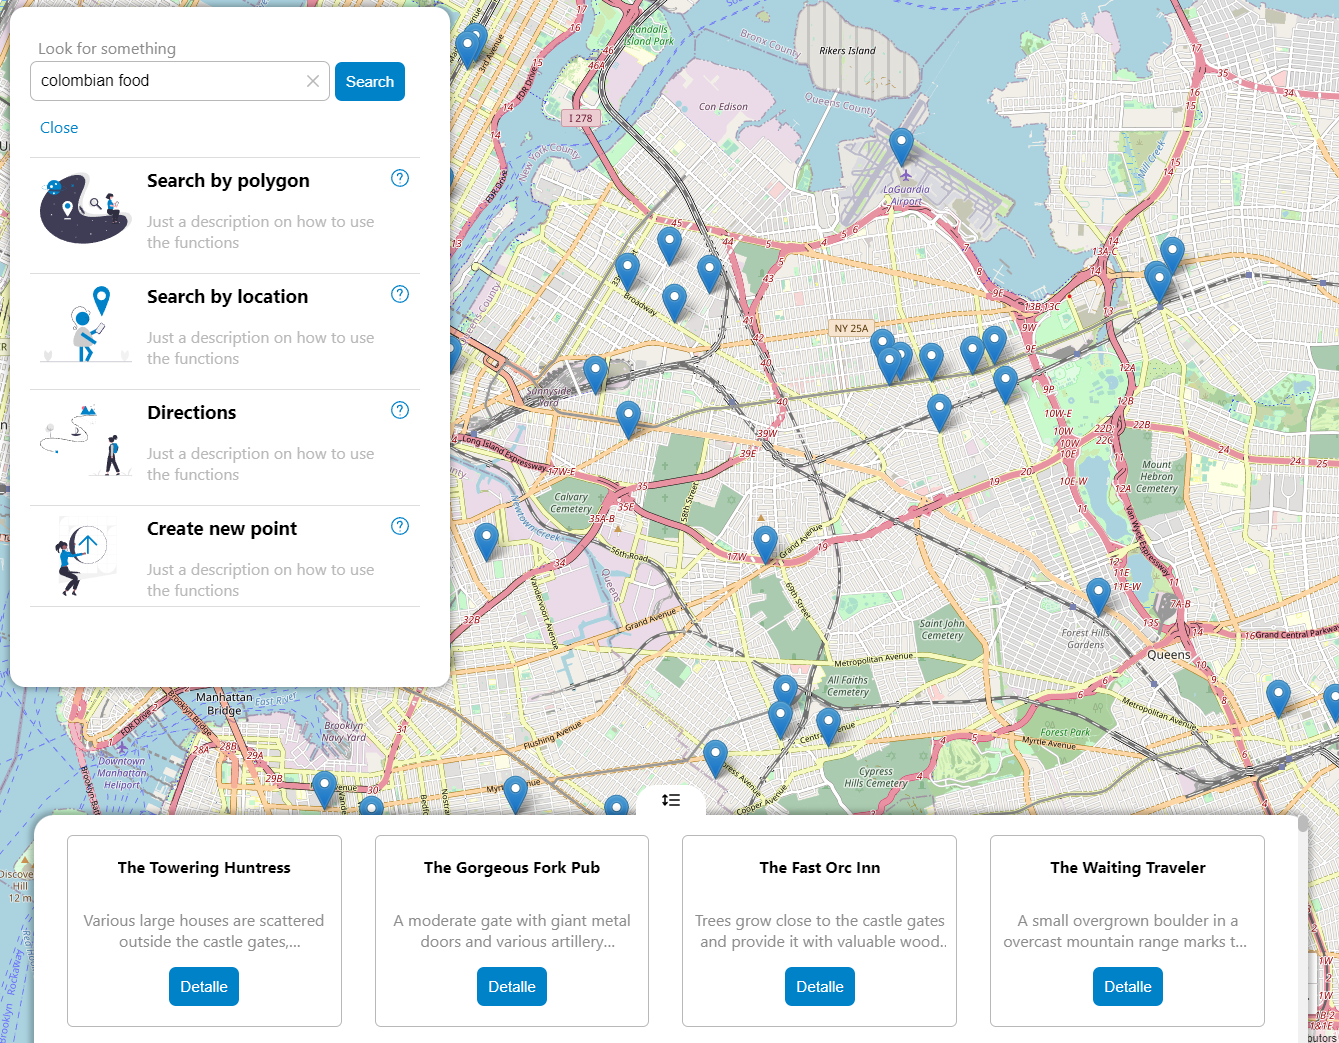
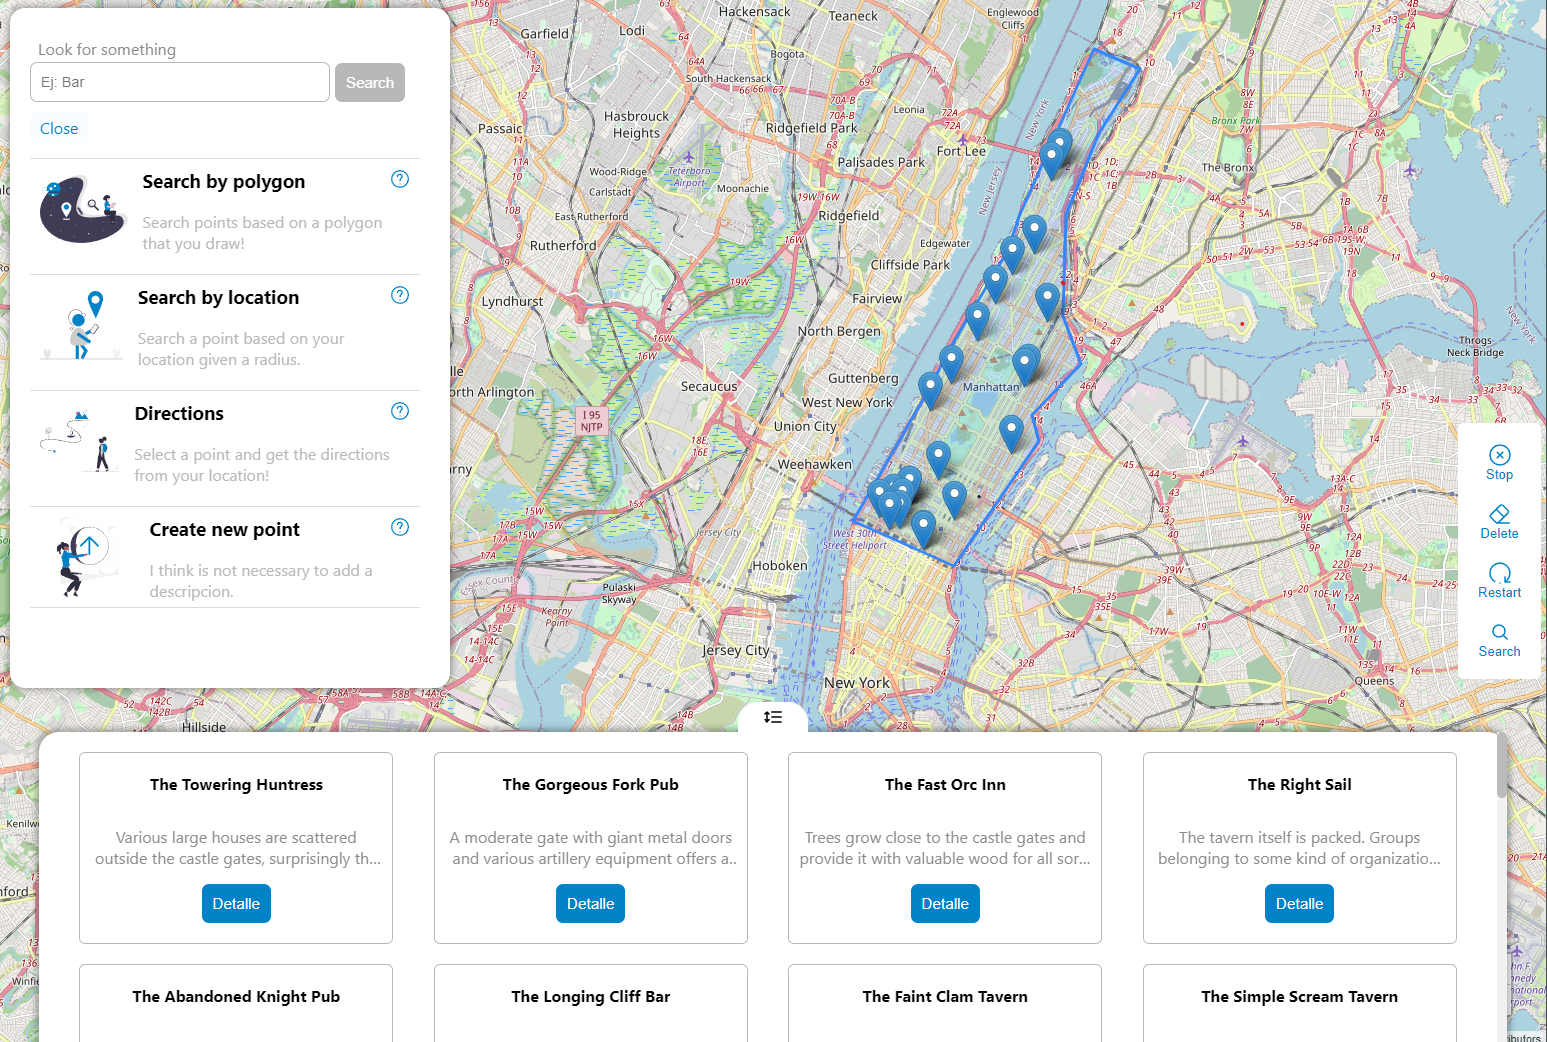
:sparkles: Search by polygon

diff --git a/src/components/Map/Map.tsx b/src/components/Map/Map.tsx
@@ -12,9 +12,14 @@ import { IPoint } from "../../Models/Interfaces";
 import "./styles.scss";
 import { useMapContext } from "../../Context/context";
 import { isMarkerInsidePolygon } from "../../helpers/helpers";
+import DrawIcon from "../../assets/icons/draw";
+import EraseIcon from "../../assets/icons/erase";
+import SearchIcon from "../../assets/icons/search";
+import StopIcon from "../../assets/icons/stop";
+import RestartIcon from "../../assets/icons/restart";
+import { throwModal } from "../../providers/ModalProvider";
 
 export const Map = () => {
-  const [markers, setMarkers] = useState<IPoint[]>(points);
   const [polygonPoints, setPolygonPoints] = useState<any>([]);
   const [drawPolygon, setDrawPolygon] = useState<any>(false);
 
@@ -37,21 +42,77 @@ export const Map = () => {
         newPoints.push(point);
       }
     });
+    if (!newPoints.length) {
+      throwModal(
+        "No results :(",
+        "We can't find results for your search, please try again"
+      );
+      setMaps({
+        ...maps,
+        showDetails: false,
+      });
+    } else {
+      setMaps({
+        ...maps,
+        points: newPoints,
+        showDetails: true,
+      });
+    }
+  };
+
+  const deleteLastPoint = () => {
+    let newPolints = [...polygonPoints];
+    newPolints = newPolints.slice(0, -1);
+    setPolygonPoints(newPolints);
+  };
+
+  const restartPolygon = () => {
+    setPolygonPoints([]);
     setMaps({
       ...maps,
-      points: newPoints,
-      showDetails: true,
+      points: [],
+      showDetails: false,
     });
-    console.log(newPoints);
   };
 
   const renderPolygonActions = () => {
     return (
       <section className="map-container__draw">
-        <button onClick={() => setDrawPolygon(!drawPolygon)}>
-          {drawPolygon ? "Stop" : "Draw"}
+        <button
+          className="map-container__button pointer"
+          onClick={() => setDrawPolygon(!drawPolygon)}
+        >
+          {drawPolygon ? (
+            <>
+              <StopIcon color="#0082c9" /> Stop
+            </>
+          ) : (
+            <>
+              <DrawIcon color="#0082c9" /> Draw
+            </>
+          )}
         </button>
-        <button onClick={() => evaluatePoints()}>Search</button>
+        <button
+          className="map-container__button pointer"
+          onClick={() => deleteLastPoint()}
+        >
+          <EraseIcon color="#0082c9" />
+          Delete
+        </button>
+        <button
+          className="map-container__button pointer"
+          onClick={() => restartPolygon()}
+        >
+          <RestartIcon color="#0082c9" />
+          Restart
+        </button>
+        <button
+          className="map-container__button pointer"
+          onClick={() => evaluatePoints()}
+        >
+          <SearchIcon color="#0082c9" />
+          Search
+        </button>
       </section>
     );
   };

diff --git a/src/components/Options/Options.tsx b/src/components/Options/Options.tsx
@@ -71,7 +71,7 @@ const Options = ({ closeSearchBar = () => {} }: IOptions) => {
           <PolygonSearchSvg width={CUSTOM_WIDTH} height={CUSTOM_HEIGHT} />
           <div className="options-container__content">
             <h3>Search by polygon</h3>
-            <p>Just a description on how to use the functions</p>
+            <p>Search points based on a polygon that you draw!</p>
           </div>
         </span>
         <HelpIcon className="pointer" onClick={() => onHelpStrategy(1)} />
@@ -86,7 +86,7 @@ const Options = ({ closeSearchBar = () => {} }: IOptions) => {
           <LocationSvg width={CUSTOM_WIDTH} height={CUSTOM_HEIGHT} />
           <div className="options-container__content">
             <h3>Search by location</h3>
-            <p>Just a description on how to use the functions</p>
+            <p>Search a point based on your location given a radius.</p>
           </div>
         </span>
         <HelpIcon className="pointer" onClick={() => onHelpStrategy(2)} />
@@ -101,7 +101,7 @@ const Options = ({ closeSearchBar = () => {} }: IOptions) => {
           <DirectionsSvg width={CUSTOM_WIDTH} height={CUSTOM_HEIGHT} />
           <div className="options-container__content">
             <h3>Directions</h3>
-            <p>Just a description on how to use the functions</p>
+            <p>Select a point and get the directions from your location!</p>
           </div>
         </span>
         <HelpIcon className="pointer" onClick={() => onHelpStrategy(3)} />
@@ -116,7 +116,7 @@ const Options = ({ closeSearchBar = () => {} }: IOptions) => {
           <CreateSvg width={CUSTOM_WIDTH} height={CUSTOM_HEIGHT} />
           <div className="options-container__content">
             <h3>Create new point</h3>
-            <p>Just a description on how to use the functions</p>
+            <p>I think is not necessary to add a descripcion.</p>
           </div>
         </span>
         <HelpIcon className="pointer" onClick={() => onHelpStrategy(4)} />

diff --git a/src/assets/icons/restart.tsx b/src/assets/icons/restart.tsx
@@ -1,0 +1,41 @@
+import { IIcon } from "../../Models/Interfaces";
+const RestartIcon = ({ color = "currentColor" }: IIcon) => {
+  return (
+    <svg
+      width="24"
+      height="24"
+      strokeWidth="1.5"
+      viewBox="0 0 24 24"
+      fill="none"
+      xmlns="http://www.w3.org/2000/svg"
+    >
+      <g clipPath="url(#clip0_1735_6488)">
+        <path
+          d="M6.67742 20.5673C2.53141 18.0212 0.758026 12.7584 2.71678 8.1439C4.87472 3.0601 10.7453 0.68822 15.8291 2.84617C20.9129 5.00412 23.2848 10.8747 21.1269 15.9585C20.2837 17.945 18.8736 19.5174 17.1651 20.5673"
+          stroke={color}
+          strokeLinecap="round"
+          strokeLinejoin="round"
+        />
+        <path
+          d="M17 16V20.4C17 20.7314 17.2686 21 17.6 21H22"
+          stroke={color}
+          strokeLinecap="round"
+          strokeLinejoin="round"
+        />
+        <path
+          d="M12 22.01L12.01 21.9989"
+          stroke={color}
+          strokeLinecap="round"
+          strokeLinejoin="round"
+        />
+      </g>
+      <defs>
+        <clipPath id="clip0_1735_6488">
+          <rect width="24" height="24" strokeWidth="1.5" fill="white" />
+        </clipPath>
+      </defs>
+    </svg>
+  );
+};
+
+export default RestartIcon;

diff --git a/src/assets/icons/erase.tsx b/src/assets/icons/erase.tsx
@@ -1,0 +1,34 @@
+import { IIcon } from "../../Models/Interfaces";
+const EraseIcon = ({ color = "currentColor" }: IIcon) => {
+  return (
+    <svg
+      width="24"
+      height="24"
+      viewBox="0 0 24 24"
+      strokeWidth="1.5"
+      fill="none"
+      xmlns="http://www.w3.org/2000/svg"
+    >
+      <path
+        d="M21 21L9 21"
+        stroke={color}
+        strokeLinecap="round"
+        strokeLinejoin="round"
+      />
+      <path
+        d="M15.889 14.8891L8.46436 7.46448"
+        stroke={color}
+        strokeLinecap="round"
+        strokeLinejoin="round"
+      />
+      <path
+        d="M2.8934 12.6066L12.0858 3.41421C12.8668 2.63317 14.1332 2.63317 14.9142 3.41421L19.864 8.36396C20.645 9.14501 20.645 10.4113 19.864 11.1924L10.6213 20.435C10.2596 20.7968 9.76894 21 9.25736 21C8.74577 21 8.25514 20.7968 7.8934 20.435L2.8934 15.435C2.11235 14.654 2.11235 13.3877 2.8934 12.6066Z"
+        stroke={color}
+        strokeLinecap="round"
+        strokeLinejoin="round"
+      />
+    </svg>
+  );
+};
+
+export default EraseIcon;

diff --git a/src/assets/icons/draw.tsx b/src/assets/icons/draw.tsx
@@ -1,0 +1,34 @@
+import { IIcon } from "../../Models/Interfaces";
+const DrawIcon = ({ color = "currentColor" }: IIcon) => {
+  return (
+    <svg
+      width="24"
+      height="24"
+      strokeWidth="1.5"
+      viewBox="0 0 24 24"
+      fill="none"
+      xmlns="http://www.w3.org/2000/svg"
+    >
+      <path
+        d="M12 2C6.47715 2 2 6.47715 2 12C2 17.5228 6.47715 22 12 22C17.5228 22 22 17.5228 22 12C22 6.47715 17.5228 2 12 2Z"
+        stroke={color}
+        strokeLinecap="round"
+        strokeLinejoin="round"
+      />
+      <path
+        d="M8 21.1679V14L12 7L16 14V21.1679"
+        stroke={color}
+        strokeLinecap="round"
+        strokeLinejoin="round"
+      />
+      <path
+        d="M8 14C8 14 9.12676 15 10 15C10.8732 15 12 14 12 14C12 14 13.1268 15 14 15C14.8732 15 16 14 16 14"
+        stroke={color}
+        strokeLinecap="round"
+        strokeLinejoin="round"
+      />
+    </svg>
+  );
+};
+
+export default DrawIcon;

diff --git a/src/assets/icons/stop.tsx b/src/assets/icons/stop.tsx
@@ -1,0 +1,28 @@
+import { IIcon } from '../../Models/Interfaces';
+const StopIcon = ({ color = "currentColor" }: IIcon) => {
+  return (
+    <svg
+      width="24"
+      height="24"
+      strokeWidth="1.5"
+      viewBox="0 0 24 24"
+      fill="none"
+      xmlns="http://www.w3.org/2000/svg"
+    >
+      <path
+        d="M9.17218 14.8284L12.0006 12M14.829 9.17157L12.0006 12M12.0006 12L9.17218 9.17157M12.0006 12L14.829 14.8284"
+        stroke={color}
+        strokeLinecap="round"
+        strokeLinejoin="round"
+      />
+      <path
+        d="M12 22C17.5228 22 22 17.5228 22 12C22 6.47715 17.5228 2 12 2C6.47715 2 2 6.47715 2 12C2 17.5228 6.47715 22 12 22Z"
+        stroke={color}
+        strokeLinecap="round"
+        strokeLinejoin="round"
+      />
+    </svg>
+  );
+};
+
+export default StopIcon;

diff --git a/src/assets/icons/search.tsx b/src/assets/icons/search.tsx
@@ -1,0 +1,28 @@
+import { IIcon } from "../../Models/Interfaces";
+const SearchIcon = ({ color = "currentColor" }: IIcon) => {
+  return (
+    <svg
+      width="24"
+      height="24"
+      strokeWidth="1.5"
+      viewBox="0 0 24 24"
+      fill="none"
+      xmlns="http://www.w3.org/2000/svg"
+    >
+      <path
+        d="M15.5 15.5L19 19"
+        stroke={color}
+        strokeLinecap="round"
+        strokeLinejoin="round"
+      />
+      <path
+        d="M5 11C5 14.3137 7.68629 17 11 17C12.6597 17 14.1621 16.3261 15.2483 15.237C16.3308 14.1517 17 12.654 17 11C17 7.68629 14.3137 5 11 5C7.68629 5 5 7.68629 5 11Z"
+        stroke={color}
+        strokeLinecap="round"
+        strokeLinejoin="round"
+      />
+    </svg>
+  );
+};
+
+export default SearchIcon;

diff --git a/src/components/Map/styles.scss b/src/components/Map/styles.scss
@@ -13,9 +13,27 @@
     right: 5px;
     z-index: 1059;
     background-color: $white;
-    height: 200px;
     border-radius: 6px;
     padding: 10px;
+  }
+
+  &__button {
+    width: 100%;
+    display: flex;
+    flex-direction: column;
+    justify-content: center;
+    align-items: center;
+    padding: 10px;
+    outline: none;
+    color: $blue-300;
+    border: none;
+    border-radius: 6px;
+    background-color: transparent;
+    transition: background 0.2s ease-in;
+    &:hover {
+      background-color: $blue-100;
+      transition: background 0.2s ease-out;
+    }
   }
 }
 

diff --git a/src/providers/ModalProvider.tsx b/src/providers/ModalProvider.tsx
@@ -69,4 +69,13 @@ interface Strategy {
   };
 }
 
-export { Polygon, Location, Directions, Creation, Context };
+const throwModal = (title: string, text: string) => {
+  Swal.fire({
+    title,
+    text,
+    confirmButtonText: "Got it!",
+    confirmButtonColor: "#0082c9",
+  });
+};
+
+export { Polygon, Location, Directions, Creation, Context, throwModal };

diff --git a/src/Models/Interfaces.ts b/src/Models/Interfaces.ts
@@ -45,3 +45,7 @@ export interface IIcons {
 export interface IPointDetails {
   point: IPoint;
 }
+
+export interface IIcon {
+  color?: string;
+}
